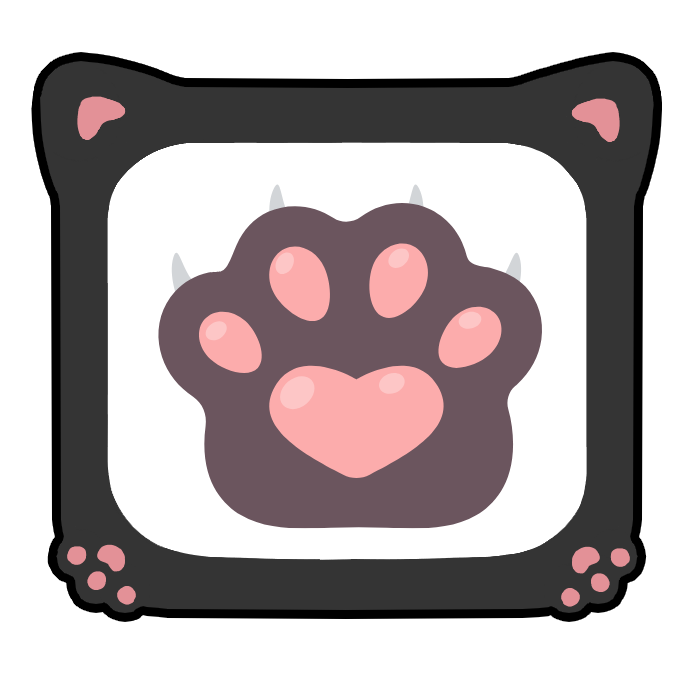
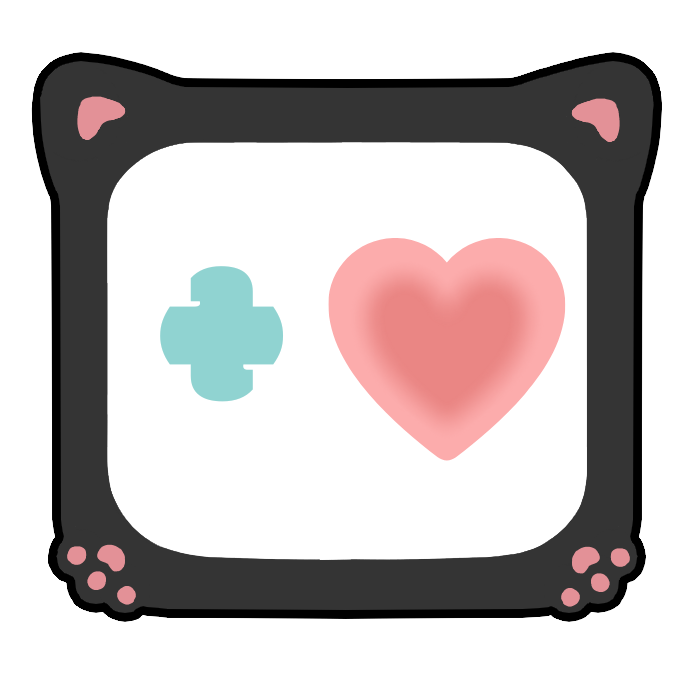
cambio algunos sprites

Changed region(s): [[0.21, 0.27, 0.81, 0.78]]

diff --git a/project/src/game/scenes/RewardScene.cpp b/project/src/game/scenes/RewardScene.cpp
@@ -55,12 +55,12 @@ void RewardScene::create_reward_buttons() {
     create_reward_button(reward1B);
 
     GameStructs::ButtonProperties reward2B = buttonPropTemplate;
-    reward2B.sprite_key = "reward_card";
+    reward2B.sprite_key = "reward_el_bl_x2";
     reward2B.rect.position.x += umbral;
     create_reward_button(reward2B);
 
     GameStructs::ButtonProperties reward3B = buttonPropTemplate;
-    reward3B.sprite_key = "reward_card";
+    reward3B.sprite_key = "reward_life";
     reward3B.rect.position.x -= umbral;
     create_reward_button(reward3B);
 }
@@ -83,8 +83,18 @@ void RewardScene::create_reward_button(const GameStructs::ButtonProperties& bp)
         std::cout << "left click -> Reward button" << std::endl;
         //swap the actual buttons textures
         imgComp->swap_textures();
-        });
 
+        ////swap the actual buttons textures
+        //if (_last_reward_button != nullptr && _last_reward_button != imgComp) {
+        //    imgComp->swap_textures();
+        //    _last_deck_button->swap_textures();
+        //    //register the clicked button
+        //}
+        //else if (_last_deck_button == nullptr) { //special case: first click
+        //    imgComp->swap_textures();
+        //}
+        //_last_deck_button = imgComp;
+        });
     buttonComp->connectHover([buttonComp, imgComp]() {
         std::cout << "hover -> Reward button: " << std::endl;
         //filter

diff --git a/project/src/game/scenes/SelectionMenuScene.cpp b/project/src/game/scenes/SelectionMenuScene.cpp
@@ -321,6 +321,6 @@ void SelectionMenuScene::create_enter_button() {
 
     buttonComp->connectClick([buttonComp, mngr, this]() {
         if (_weapon_selected &&_deck_selected)
-        Game::Instance()->change_Scene(Game::GAMESCENE);
+        Game::Instance()->change_Scene(Game::REWARDSCENE);
     }); 
 }

diff --git a/project/src/game/scenes/RewardScene.h b/project/src/game/scenes/RewardScene.h
@@ -5,6 +5,9 @@
 
 class Texture;
 class Button;
+class Card;
+class ImagenForButton;
+using LastButton = ImageForButton*;
 class RewardScene : public Scene
 {
 public:
